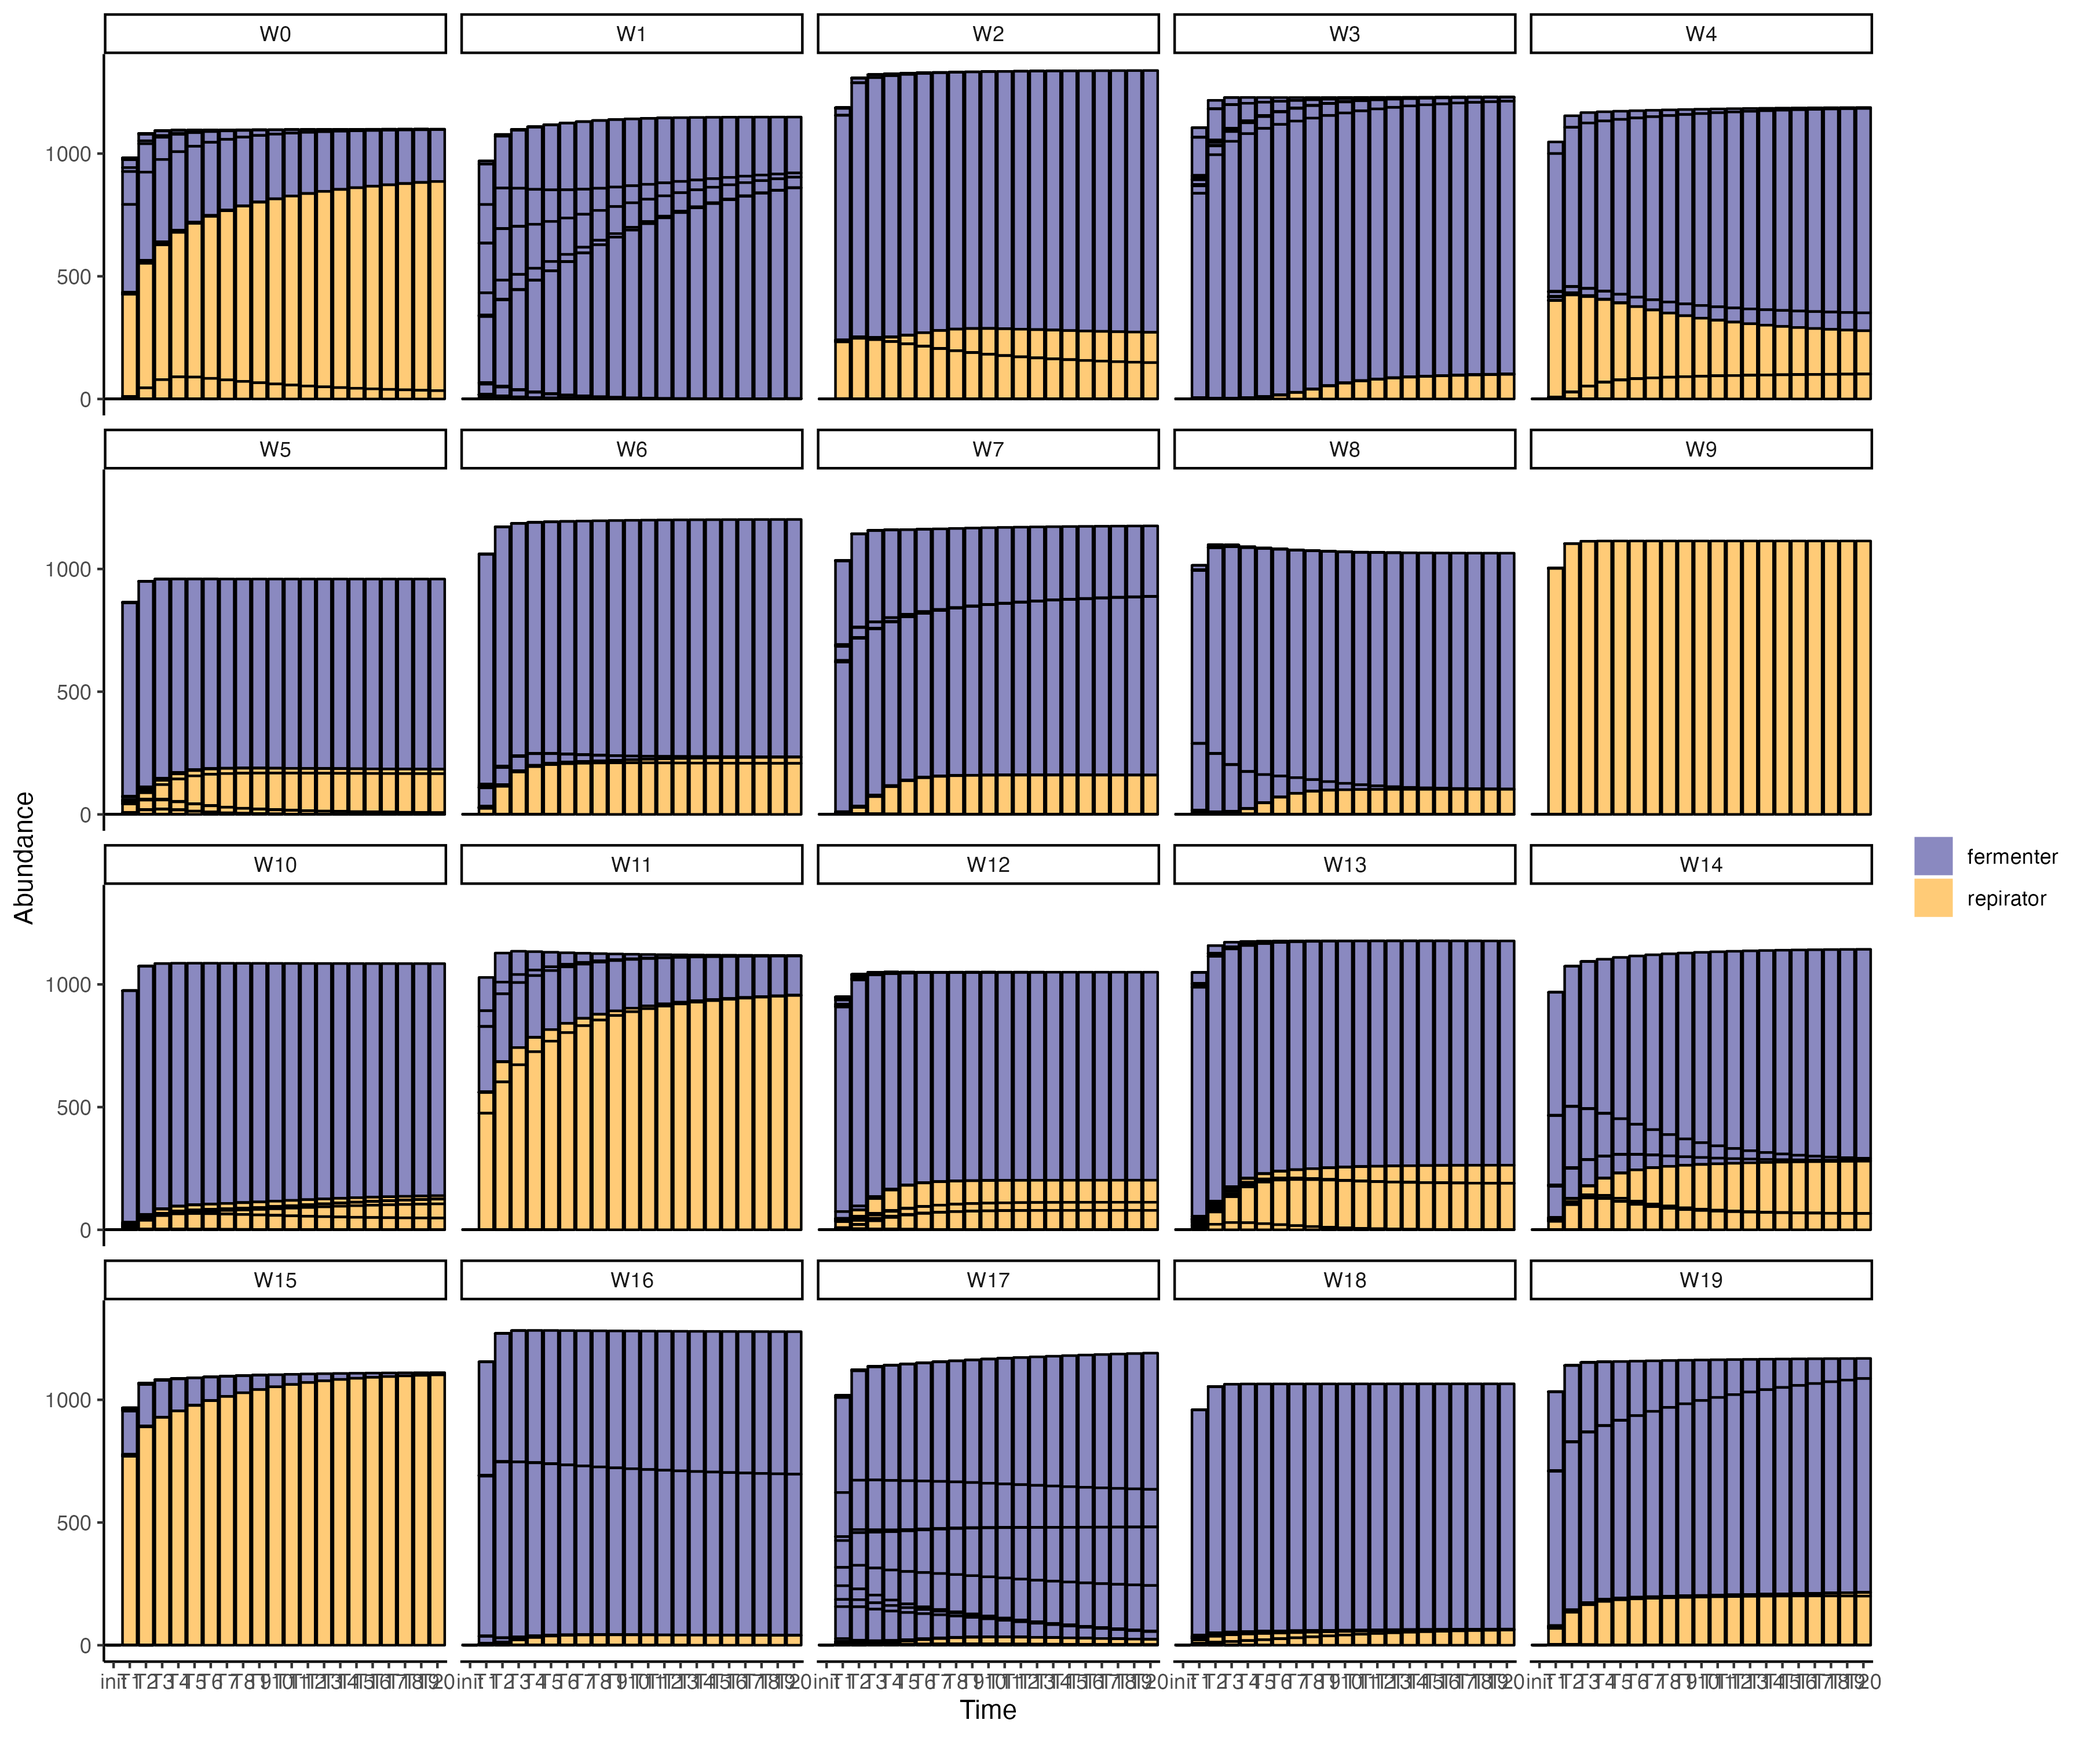
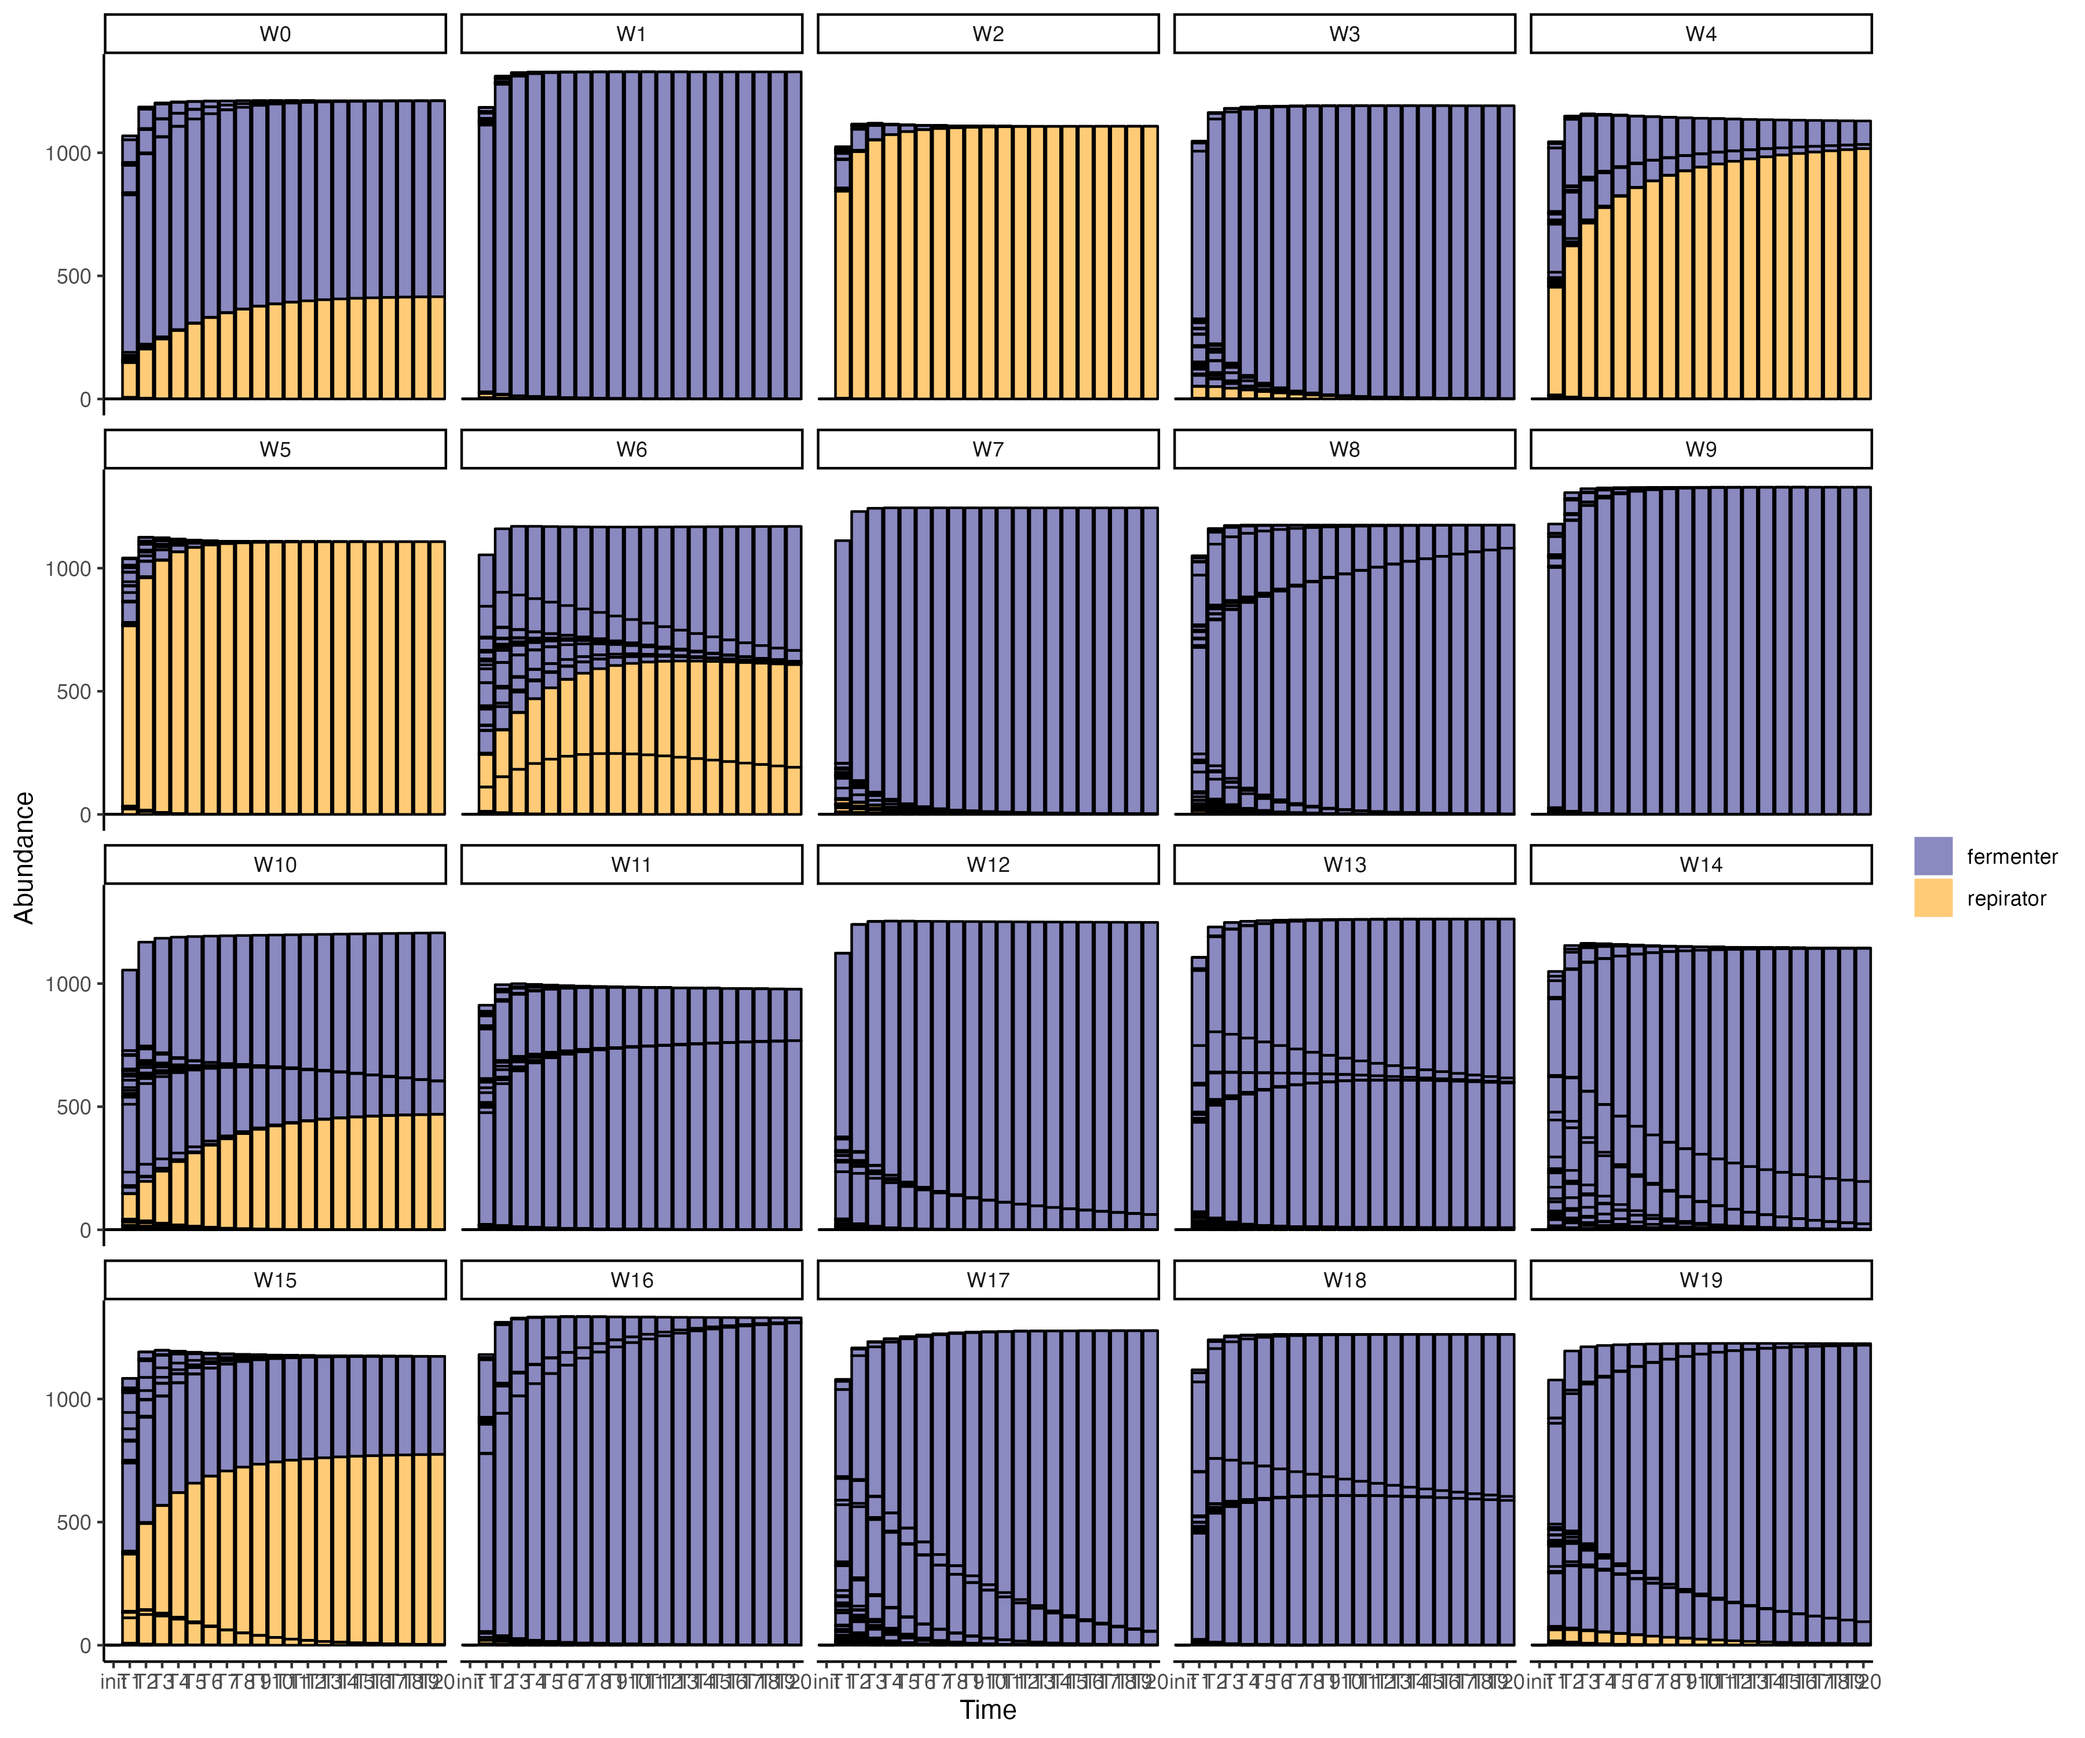
halt simulation

diff --git a/simulation/user_tools.py b/simulation/user_tools.py
@@ -55,34 +55,34 @@ def sample_matrices(assumptions):
         for k in range(F):
             for j in range(T):
                 if k==0 and j==0: # fermenter on sugar
-                    c_mean = (assumptions['c_fs']/M)*(1+assumptions['q']*(M-assumptions['MA'][j])/assumptions['MA'][j])
-                    c_var = (assumptions['sigc_fs']**2/M)*(1+assumptions['q']*(M-assumptions['MA'][j])/assumptions['MA'][j])
-                    # c_mean = (assumptions['c_fs'])
-                    # c_var = assumptions['sigc_fs']**2
+                    # c_mean = (assumptions['c_fs']/M)*(1+assumptions['q']*(M-assumptions['MA'][j])/assumptions['MA'][j])
+                    # c_var = (assumptions['sigc_fs']**2/M)*(1+assumptions['q']*(M-assumptions['MA'][j])/assumptions['MA'][j])
+                    c_mean = (assumptions['c_fs'])
+                    c_var = assumptions['sigc_fs']**2
                     thetac = c_var/c_mean
                     kc = c_mean**2/c_var
                     c.loc['F'+str(k), 'T'+str(j)] = np.random.gamma(kc, scale = thetac, size = (assumptions['SA'][k], assumptions['MA'][j]))
                 elif k==1 and j==1: # respirator on acid
-                    c_mean = (assumptions['c_ra']/M)*(1+assumptions['q']*(M-assumptions['MA'][j])/assumptions['MA'][j])
-                    c_var = (assumptions['sigc_ra']**2/M)*(1+assumptions['q']*(M-assumptions['MA'][j])/assumptions['MA'][j])
-                    # c_mean = assumptions['c_ra']
-                    # c_var = assumptions['sigc_ra']**2
+                    # c_mean = (assumptions['c_ra']/M)*(1+assumptions['q']*(M-assumptions['MA'][j])/assumptions['MA'][j])
+                    # c_var = (assumptions['sigc_ra']**2/M)*(1+assumptions['q']*(M-assumptions['MA'][j])/assumptions['MA'][j])
+                    c_mean = assumptions['c_ra']
+                    c_var = assumptions['sigc_ra']**2
                     thetac = c_var/c_mean
                     kc = c_mean**2/c_var
                     c.loc['F'+str(k), 'T'+str(j)] = np.random.gamma(kc, scale = thetac, size = (assumptions['SA'][k], assumptions['MA'][j]))
                 elif k==1 and j==0: # respirator on sugar
-                    c_mean = (assumptions['c_rs']/M)*(1+assumptions['q']*(M-assumptions['MA'][j])/assumptions['MA'][j])
-                    c_var = (assumptions['sigc_rs']**2/M)*(1+assumptions['q']*(M-assumptions['MA'][j])/assumptions['MA'][j])
-                    # c_mean = assumptions['c_rs']
-                    # c_var = assumptions['sigc_rs']**2
+                    # c_mean = (assumptions['c_rs']/M)*(1+assumptions['q']*(M-assumptions['MA'][j])/assumptions['MA'][j])
+                    # c_var = (assumptions['sigc_rs']**2/M)*(1+assumptions['q']*(M-assumptions['MA'][j])/assumptions['MA'][j])
+                    c_mean = assumptions['c_rs']
+                    c_var = assumptions['sigc_rs']**2
                     thetac = c_var/c_mean
                     kc = c_mean**2/c_var
                     c.loc['F'+str(k), 'T'+str(j)] = np.random.gamma(kc, scale = thetac, size = (assumptions['SA'][k], assumptions['MA'][j]))
                 elif k==0 and j==1: # fermenter on acid
-                    c_mean = (assumptions['c_fa']/M)*(1+assumptions['q']*(M-assumptions['MA'][j])/assumptions['MA'][j])
-                    c_var = (assumptions['sigc_fa']**2/M)*(1+assumptions['q']*(M-assumptions['MA'][j])/assumptions['MA'][j])
-                    # c_mean = assumptions['c_fa']
-                    # c_var = assumptions['sigc_fa']**2
+                    # c_mean = (assumptions['c_fa']/M)*(1+assumptions['q']*(M-assumptions['MA'][j])/assumptions['MA'][j])
+                    # c_var = (assumptions['sigc_fa']**2/M)*(1+assumptions['q']*(M-assumptions['MA'][j])/assumptions['MA'][j])
+                    c_mean = assumptions['c_fa']
+                    c_var = assumptions['sigc_fa']**2
                     thetac = c_var/c_mean
                     kc = c_mean**2/c_var
                     c.loc['F'+str(k), 'T'+str(j)] = np.random.gamma(kc, scale = thetac, size = (assumptions['SA'][k], assumptions['MA'][j]))
@@ -397,18 +397,22 @@ def load_assumptions(input_row):
     assumptions['n_communities'] = int(input_row['n_communities'])
     assumptions['m'] = 0 # Set m=0 to turn off maintanence cost. i.e., no cell dies
     assumptions['S'] = int(input_row['S']) # Number of initial per-well species sampled from the species pool
-    assumptions['w'] = float(input_row['w'])
     
-    #
+    # Test community-simulator parameters
     assumptions['q'] = 0 #Preference strength of specialist families (0 for generalist and 1 for specialist)
     assumptions['c0'] = 0 #Sum of background consumption rates in binary model
     assumptions['c1'] = 1 #Specific consumption rate in binary model
     assumptions['muc'] = 10 # Mean sum of consumption rates (used in all models)
     assumptions['sigc'] = 3 # Standard deviation of sum of consumption rates for Gaussian and Gamma models
     assumptions['l'] = float(input_row['l'])
+    assumptions['w'] = float(input_row['w'])
+    
+    # Passage parameters
+    assumptions['n_pass'] = int(input_row['n_pass'])
+    assumptions['t_propagation'] = float(input_row['t_propagation'])
     
     ## Consumer consumption rates
-    scaler = 50
+    scaler = 1
     assumptions['sampling'] = str(input_row['sampling']) 
     assumptions['c_fs'] = float(input_row['c_fs']) * scaler
     assumptions['sigc_fs'] = float(input_row['sigc_fs']) * scaler
@@ -506,7 +510,7 @@ def run_simulations(input_row):
     params['c'] = c
     params['D'] = D
     params['l'] = l
-    print(len(params['D']))
+    #print(len(params['D']))
     #print(params)
     # print(type(params))
     # for k in range(assumptions['n_wells']):
@@ -530,15 +534,14 @@ def run_simulations(input_row):
     # Make plate object
     Plate = Community(init_state, dynamics, params, parallel = False)
     print("Start passaging")
-    npass = 20
-    for i in range(npass): # number of passages
+    for i in range(a['n_pass']): # number of passages
         #for j in range(5): # time of propagation 
-        Plate.Propagate(T = 1, compress_resources = False, compress_species = True)
+        Plate.Propagate(T = a['t_propagation'], compress_resources = False, compress_species = True)
         #print("T" + str(i+1) + "t" + str(j+1))
         print("T" + str(i+1))
         Plate.N.round(2).to_csv(input_row['output_dir'] + re.sub("init.csv", "T" + str(i+1) + ".csv", input_row["init_N0"]))
         Plate.R.round(2).to_csv(input_row['output_dir'] + re.sub("init.csv", "T" + str(i+1) + ".csv", input_row["init_R0"]))
-        if i == (npass-1): # last transfer
+        if i == (a['n_pass']-1): # last transfer
             Plate.N.round(2).to_csv(input_row['output_dir'] + re.sub("init.csv", "end.csv", input_row["init_N0"]))
             Plate.R.round(2).to_csv(input_row['output_dir'] + re.sub("init.csv", "end.csv", input_row["init_R0"]))
         Plate.Passage(f = np.eye(a['n_wells'])/10, refresh_resource = True)
